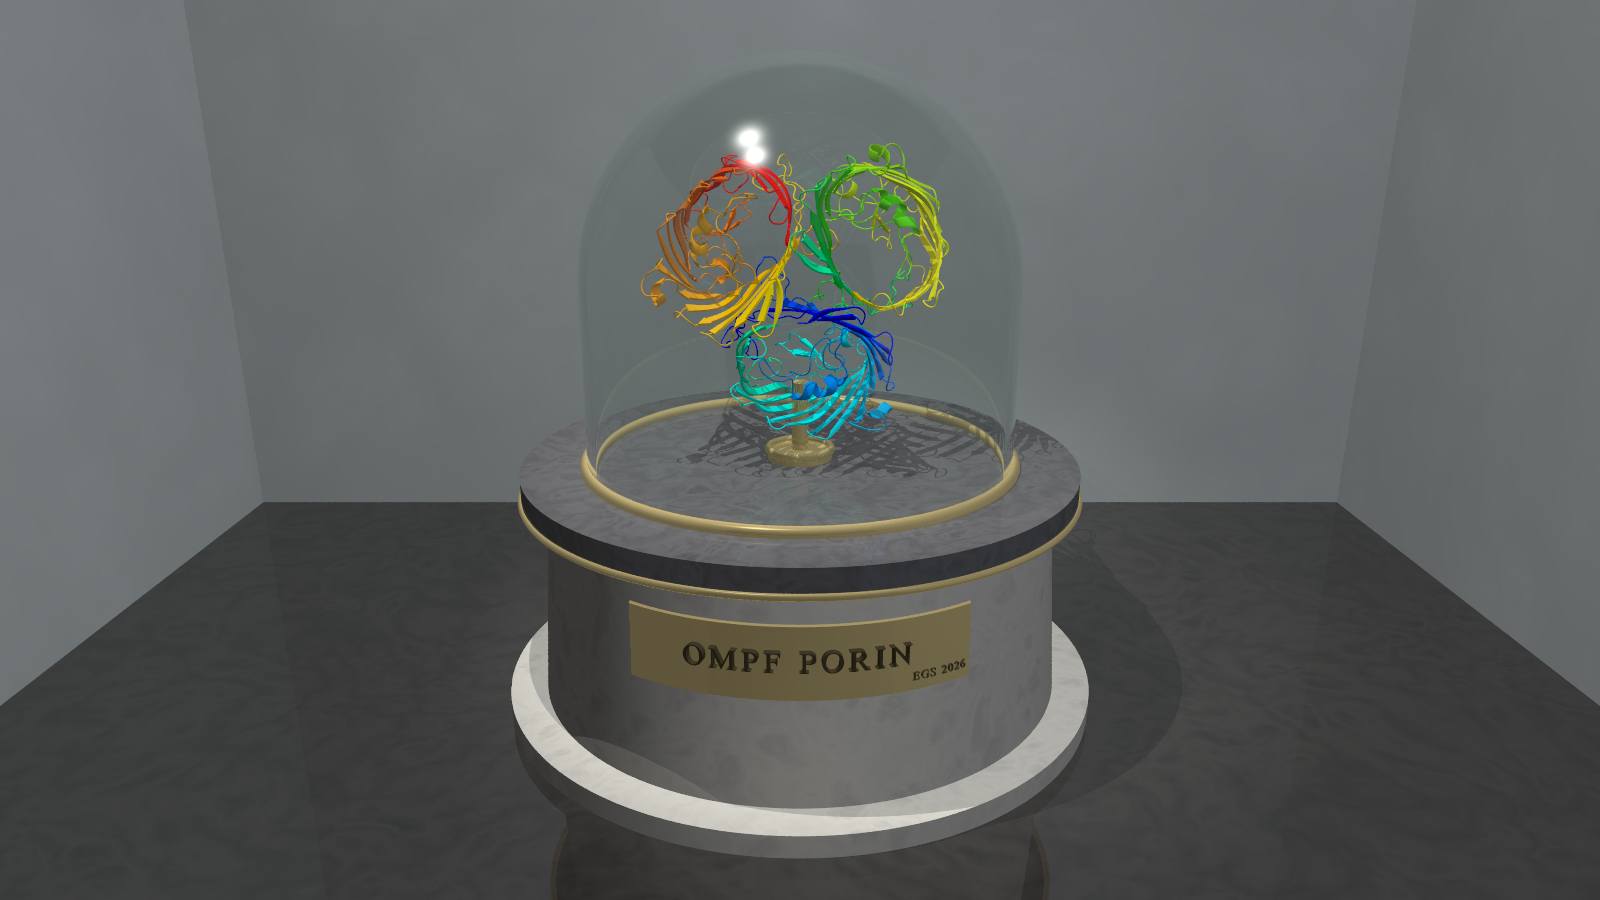
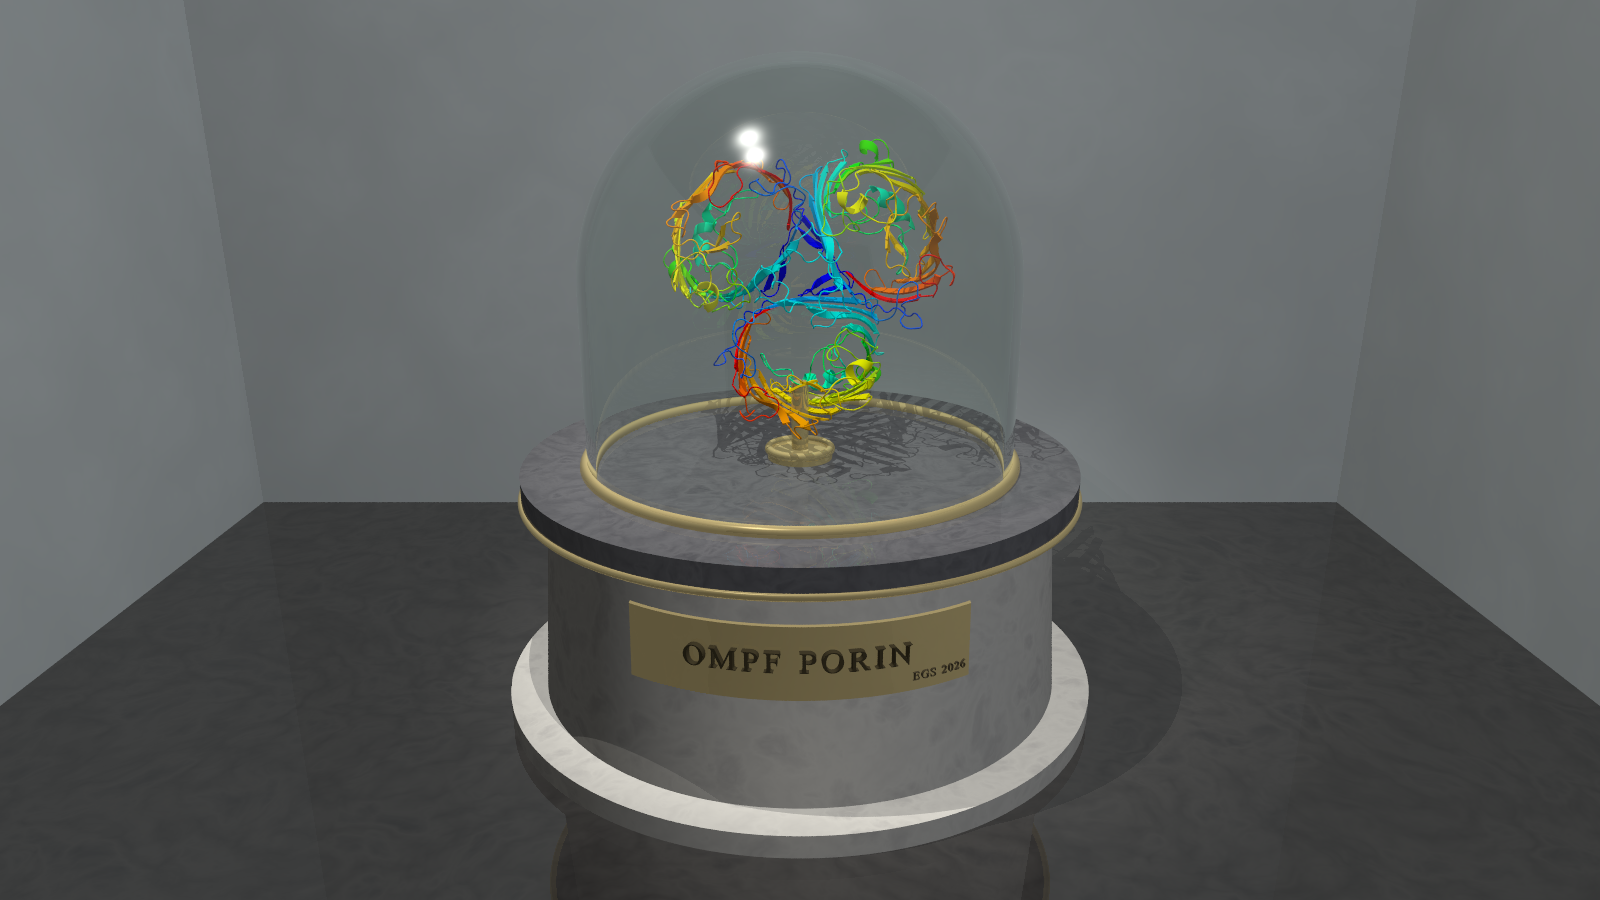
fix(pymol): cartoons rendered as their mirror image on both backends (#70)
* fix(pymol): cartoons rendered as their mirror image on both backends

cmd.get_povray() emits the model's own right-handed coordinates, offset
only by the view centre and camera pull-back. cartoon_inc() and
cartoon_obj() both treated it as already left-handed. So the POV-Ray
include skipped the z flip pypdb2pov applies to atoms, and the Cycles OBJ
added one it did not need: every structure came out correctly folded with
left-handed helices, and a cartoon would not line up with a pypdb2pov atom
scene of the same structure.

The include now ends with scale <1, 1, -1> after the recentring, and the
OBJ keeps PyMOL's coordinates and winding.

New tests measure each export against crambin's own CA atoms: 0.27 A to
the ribbon, against 2.80 A for the mirror image. They fail on the old code
and pass on the fix. Confirmed visually too: a lit alpha-helix through both
backends now matches PyMOL's own ray trace, where before both showed the
enantiomer.

Docs, the render_cartoon_hologram.py docstring and CHANGELOG corrected.
Cartoon renders made before this fix show the enantiomer.

* fix(make_exhibit): record the command that actually regenerates an exhibit

The scene header said "make_exhibit.py {stem.upper()}", which is only the
PDB ID when --name was not given. exhibit_mspa.pov was made from 1UUN with
--name mspa, so its header said "make_exhibit.py MSPA", which the RCSB
rejects. The header now carries the ID plus any --name and --label, and
[…]

Changed region(s): [[0.4062, 0.1556, 0.5938, 0.5289]]

diff --git a/tests/test_pymol.py b/tests/test_pymol.py
@@ -10,6 +10,7 @@ gated on PyMOL being reachable.
 from __future__ import annotations
 
 import math
+import re
 import shutil
 
 import pytest
@@ -272,6 +273,125 @@ def test_coalescing_is_what_makes_the_export_usable(tmp_path):
     assert plain.path.read_text().count("mesh2 {") > 100
     # Same object either way.
     assert merged.enclosing_radius == pytest.approx(plain.enclosing_radius, rel=1e-6)
+
+
+def _crambin_ca() -> list[tuple[float, float, float]]:
+    """CA coordinates of crambin, straight from the PDB file."""
+    with open(CRAMBIN) as fh:
+        return [
+            (float(line[30:38]), float(line[38:46]), float(line[46:54]))
+            for line in fh
+            if line.startswith("ATOM") and line[12:16].strip() == "CA"
+        ]
+
+
+def _model_centre(result_centre) -> tuple[float, float, float]:
+    """The model-space point a crambin export was recentred on.
+
+    The export script centres PyMOL's view on the atoms' bounding box, so the
+    raw mesh arrives already offset by it; ``centre`` is measured after that.
+    """
+    with open(CRAMBIN) as fh:
+        atoms = [
+            (float(line[30:38]), float(line[38:46]), float(line[46:54]))
+            for line in fh
+            if line.startswith("ATOM")
+        ]
+    box = [(min(a[i] for a in atoms) + max(a[i] for a in atoms)) / 2 for i in range(3)]
+    return tuple(b + c for b, c in zip(box, result_centre, strict=True))
+
+
+def _placed_vertices(include: str) -> list[tuple[float, float, float]]:
+    """Mesh vertices of *include* after its own transforms, in POV-Ray space.
+
+    Applies every ``translate`` and ``scale`` the wrapper declares, in order,
+    so the test sees the geometry where POV-Ray will put it -- not where the
+    implementation says it should be.
+    """
+    from quiltwright.pymol import _VEC, _VERTEX_BLOCK
+
+    points = [
+        [float(x), float(y), float(z)]
+        for block in _VERTEX_BLOCK.finditer(include)
+        for x, y, z in _VEC.findall(block.group(1))
+    ]
+    # The wrapper's transforms follow the mesh; the mesh itself carries none.
+    tail = include[include.rindex("face_indices") :]
+    for op, x, y, z in re.findall(r"(translate|scale)\s*<\s*([^,]+),\s*([^,]+),\s*([^>]+)>", tail):
+        v = (float(x), float(y), float(z))
+        for p in points:
+            for i in range(3):
+                p[i] = p[i] + v[i] if op == "translate" else p[i] * v[i]
+    return [tuple(p) for p in points]
+
+
+def _mean_ca_to_mesh(ca, centre, mesh, *, mirror_z: bool) -> float:
+    """Mean distance from each CA (recentred, optionally z-mirrored) to its nearest mesh vertex."""
+    import numpy as np
+
+    pts = np.asarray(mesh)
+    atoms = np.asarray(ca) - np.asarray(centre)
+    if mirror_z:
+        atoms[:, 2] = -atoms[:, 2]
+    return float(np.mean([np.min(np.linalg.norm(pts - a, axis=1)) for a in atoms]))
+
+
+def test_the_include_mirrors_z_after_recentring():
+    """POV-Ray is left-handed and PyMOL's export is right-handed model space,
+    so the include reflects z -- the same flip pypdb2pov applies to atoms --
+    and does it last, after the recentring translations.
+    """
+    text = wrapped()
+    assert text.index("translate <-3, 4, -5>") < text.index("scale <1, 1, -1>")
+
+
+@pytest.mark.slow
+@pymol_only
+def test_a_cartoon_include_is_not_the_enantiomer(tmp_path):
+    """The ribbon runs through its own CA atoms.  Mapped into POV-Ray's world
+    with the flip every other POV scene here uses (``to_pov``: negate z), each
+    crambin CA lies a fraction of an angstrom from the mesh; its mirror image
+    lies ten times further off.  A cartoon that renders left-handed helices fails
+    this, where every string check above would still pass.
+    """
+    if not __import__("os").path.exists(CRAMBIN):
+        pytest.skip("crambin not available on this machine")
+    result = cartoon_inc(CRAMBIN, tmp_path / "crambin.inc", assembly="")
+    mesh = _placed_vertices(result.path.read_text())
+    ca = _crambin_ca()
+
+    centre = _model_centre(result.centre)
+    right = _mean_ca_to_mesh(ca, centre, mesh, mirror_z=True)
+    mirrored = _mean_ca_to_mesh(ca, centre, mesh, mirror_z=False)
+    # Measured: 0.27 A against 2.80 A for the mirror image.
+    assert right < 1.0
+    assert mirrored > 5 * right
+
+
+@pytest.mark.slow
+@pymol_only
+def test_a_cartoon_obj_is_not_the_enantiomer(tmp_path):
+    """Cycles is right-handed like the PDB, so the OBJ is the model itself,
+    recentred: each CA lies close to the mesh unmirrored.
+    """
+    if not __import__("os").path.exists(CRAMBIN):
+        pytest.skip("crambin not available on this machine")
+    from quiltwright.pymol import cartoon_obj
+
+    centre = _model_centre(cartoon_inc(CRAMBIN, tmp_path / "crambin.inc", assembly="").centre)
+    out = cartoon_obj(CRAMBIN, tmp_path / "crambin.obj", assembly="").path
+    mesh = [
+        tuple(float(v) for v in line.split()[1:4])
+        for line in out.read_text().splitlines()
+        if line.startswith("v ")
+    ]
+    ca = _crambin_ca()
+
+    right = _mean_ca_to_mesh(ca, centre, mesh, mirror_z=False)
+    mirrored = _mean_ca_to_mesh(ca, centre, mesh, mirror_z=True)
+    # Measured: 0.27 A against 2.80 A for the mirror image.
+    assert right < 1.0
+    assert mirrored > 5 * right
 
 
 def test_a_missing_pymol_says_how_to_get_one(monkeypatch, tmp_path):

diff --git a/src/quiltwright/pymol.py b/src/quiltwright/pymol.py
@@ -567,8 +567,7 @@ class CartoonMeshResult:
     :param enclosing_radius: Radius of the sphere about the origin that
         contains the geometry, in angstroms -- identical to what
         :func:`cartoon_inc` would report for the same PyMOL export, since
-        both are measured from the same mesh before either the POV
-        ``translate`` trick or this function's coordinate flip is applied.
+        both are measured from the same mesh before either is recentred.
     :param vertices: Vertices in the emitted mesh, after deduplication.
     :param faces: Triangles in the emitted mesh.
     :param backend: ``"module"`` or ``"subprocess"``.
@@ -607,20 +606,20 @@ def cartoon_obj(
     recentring), so the enclosing radius here matches what that function
     would report for the same export.
 
-    **The coordinate flip.**  ``cmd.get_povray()`` emits directly in
-    POV-Ray's left-handed convention -- :func:`cartoon_inc` passes it through
-    unchanged, because POV-Ray is exactly where it is going.  An OBJ headed
-    for :mod:`quiltwright.cycles` (right-handed, +z up, same as everything
-    else in this package) needs the same reflection :func:`to_pov` applies in
-    the other direction: negate *z*, and reverse each face's winding to
-    compensate, or the mesh imports with its normals -- and every backface
-    culling decision Cycles makes -- turned inside out.  This mirrors
-    :class:`~quiltwright.povgen.Mesh2`'s own ``wind()`` step exactly, just
-    run backwards.  Verified against a real PyMOL export: also see
-    ``quiltwright.cycles``'s ``obj`` importer, which must be told the file is
-    already in this package's +z-up convention, or Blender's default
-    Y-up-to-Z-up remap for Wavefront files turns this mesh 90 degrees against
-    a camera framed for it.
+    **No coordinate flip.**  With the identity view the export script sets,
+    ``cmd.get_povray()`` emits the model's own right-handed coordinates,
+    offset only by the view centre and the camera pull-back -- PyMOL's POV
+    header compensates with a right-handed camera rather than by reflecting
+    the geometry.  :mod:`quiltwright.cycles` is right-handed too, so the OBJ
+    is the model, recentred, with PyMOL's winding kept.  (It is
+    :func:`cartoon_inc`, bound for left-handed POV-Ray, that reflects *z*.)
+    An earlier version negated *z* here on the belief that the export was
+    already left-handed, and so rendered every structure as its enantiomer;
+    ``tests/test_pymol.py`` now checks the mesh against the structure's own
+    CA atoms.  Also see ``quiltwright.cycles``'s ``obj`` importer, which must
+    be told the file is already in this package's +z-up convention, or
+    Blender's default Y-up-to-Z-up remap for Wavefront files turns this mesh
+    90 degrees against a camera framed for it.
 
     **Colour.**  Plain OBJ carries none, so by default (``color=None``) this
     writes geometry only, exactly as before.  Passing a colour bakes it into
@@ -709,12 +708,12 @@ def cartoon_obj(
     centre, radius, _ = _measure(mesh, meta["pull_back"])
     cx, cy, cz = centre
     vertices = [
-        (float(x) - cx, float(y) - cy, -(float(z) + meta["pull_back"] - cz))
+        (float(x) - cx, float(y) - cy, float(z) + meta["pull_back"] - cz)
         for block in _VERTEX_BLOCK.finditer(mesh)
         for x, y, z in _VEC.findall(block.group(1))
     ]
     faces = [
-        (int(a), int(c), int(b))  # winding reversed to match the z flip above
+        (int(a), int(b), int(c))
         for block in _FACE_BLOCK.finditer(mesh)
         for a, b, c in _VEC.findall(block.group(1))
     ]
@@ -802,6 +801,10 @@ def _wrap(
   // Undo PyMOL's camera pull-back, then centre the geometry on the origin.
   translate <0, 0, {z_shift:.6g}>
   translate <{-cx:.6g}, {-cy:.6g}, {-cz:.6g}>
+  // PyMOL exports right-handed model space; POV-Ray is left-handed.  The
+  // same flip pypdb2pov applies to atoms -- without it every helix is
+  // rendered as its mirror image.
+  scale <1, 1, -1>
 }}
 
 #declare {identifier} = object {{ {identifier}_obj }}

diff --git a/scripts/render_cartoon_hologram.py b/scripts/render_cartoon_hologram.py
@@ -25,14 +25,13 @@ modelled scenes:
 **Requires PyMOL** (see ``quiltwright cartoon --check`` for install routes)
 and either a ``povray`` or ``blender`` binary depending on ``--backend``.
 
-``--backend povray`` (``cartoon_inc()``) has now been run end to end against
-a real PyMOL export -- 1BMF, F1-ATP synthase, 154668 vertices / 307824 faces
--- and the output is a correctly folded, correctly coloured cartoon, so its
-own coordinate handling can be trusted. ``--backend cycles``
-(``cartoon_obj()``) has not been exercised the same way; treat a first real
-render from it with the scrutiny unverified code deserves, most of all the
-coordinate flip its docstring documents (negate *z*, reverse each face's
-winding).
+Both backends have been run end to end against real PyMOL exports (1BMF,
+F1-ATP synthase, 154668 vertices / 307824 faces, for ``--backend povray``).
+Through 0.15.0 both rendered every structure as its **mirror image** --
+correctly folded and coloured, with left-handed helices -- because each
+treated PyMOL's right-handed export as already left-handed.  Handedness is
+now checked in ``tests/test_pymol.py`` against the structure's own CA atoms,
+and was confirmed on a lit alpha-helix against PyMOL's own ray trace.
 
 Usage::
 
@@ -60,11 +59,11 @@ from quiltwright.lfd import QUILT_PRESETS, QuiltSpec, save_quilt
 from quiltwright.pymol import REPRESENTATIONS
 from quiltwright.quilt import resolve_view_cone
 
-#: A fixed 3/4-elevated viewing direction, in the right-handed convention
-#: this script frames both cameras from.  Arbitrary but consistent -- the
-#: same direction feeds both backends (see the module docstring on how the
-#: POV-Ray camera reaches the same view of the mirror-image geometry
-#: cartoon_inc() mounts).
+#: A fixed 3/4-elevated viewing direction, in the structure's own right-handed
+#: frame, which both cameras are framed from.  Arbitrary but consistent -- the
+#: same direction feeds both backends: the Cycles camera takes it as is, the
+#: POV-Ray camera through ``to_pov``, matching the z flip cartoon_inc() bakes
+#: into its include.
 VIEW_DIRECTION = np.array([0.55, -1.0, 0.4])
 VIEW_DIRECTION = VIEW_DIRECTION / np.linalg.norm(VIEW_DIRECTION)
 

diff --git a/scripts/make_exhibit.py b/scripts/make_exhibit.py
@@ -169,8 +169,12 @@ def convert(
     return out, radius
 
 
-def compose(stem: str, include: Path, label: str, fill: float) -> Path:
-    """Write the exhibit scene, unless one is already there to keep."""
+def compose(stem: str, include: Path, label: str, fill: float, command: str) -> Path:
+    """Write the exhibit scene, unless one is already there to keep.
+
+    :param command: The make_exhibit.py arguments that regenerate this
+        exhibit, recorded in the scene header.
+    """
     scene = VITRINE / f"exhibit_{stem}.pov"
     if scene.exists():
         say("3/5 compose", f"{scene.name} exists, keeping it")
@@ -186,7 +190,7 @@ def compose(stem: str, include: Path, label: str, fill: float) -> Path:
         f'''// {label} in the standard vitrine.  Written by scripts/make_exhibit.py.
 //
 // Regenerate the geometry with:
-//   python scripts/make_exhibit.py {stem.upper()}
+//   python scripts/make_exhibit.py {command}
 
 #version 3.7;
 global_settings {{ assumed_gamma 1.0 }}
@@ -306,7 +310,12 @@ def main(argv: list[str] | None = None) -> int:
         fill_args["surface_quality"] = quality
 
     include, _ = convert(source, stem, rep=args.rep, color=args.color, fill_args=fill_args)
-    scene = compose(stem, include, label, args.fill)
+    command = args.pdb_id.upper()
+    if args.name:
+        command += f" --name {args.name}"
+    if args.label:
+        command += f' --label "{args.label}"'
+    scene = compose(stem, include, label, args.fill, command)
     still = render(scene, stem, args.width, args.height)
     print(f"\n      {still}")
 

diff --git a/docs/cycles.md b/docs/cycles.md
@@ -233,14 +233,13 @@ python scripts/render_cartoon_hologram.py 2omf.cif.gz --backend povray --still #
 identical PyMOL export and coalescing, written as a plain OBJ instead of a
 POV-Ray include -- geometry only, no per-vertex color, since OBJ carries
 none reliably -- so a "which backend wins on a mesh this size" comparison
-starts from one triangulation, not two independently modeled scenes. It
-carries the same coordinate flip as everywhere else meshes cross from
-PyMOL's POV-Ray-native output into this package's right-handed convention:
-negate *z*, reverse each face's winding to compensate -- worth rereading its
-docstring before trusting a first render, since this path has not yet been
-exercised against a real PyMOL export in this codebase's own development
-environment (no PyMOL here) and the fix for a mesh that renders "inside out"
-is almost always exactly that flip.
+starts from one triangulation, not two independently modeled scenes. PyMOL's
+export is the model's own right-handed coordinates, the same convention as
+Cycles, so the OBJ needs no coordinate flip; it is `cartoon_inc()`, bound for
+left-handed POV-Ray, that reflects *z*. Through 0.15.0 this was the other way
+round, and both backends drew every structure as its mirror image.
+`tests/test_pymol.py` now checks each export against the structure's own CA
+atoms.
 
 ## What stays with POV-Ray
 

diff --git a/CHANGELOG.md b/CHANGELOG.md
@@ -7,6 +7,23 @@ and this project adheres to [Semantic Versioning](https://semver.org/).
 
 ## [Unreleased]
 
+### Fixed
+
+- **PyMOL cartoons rendered as their mirror image, on both backends.**
+  `cartoon_inc()` and `cartoon_obj()` treated `cmd.get_povray()`'s output as
+  left-handed. It is the model's own right-handed coordinates, offset by the
+  view centre and camera pull-back. So the POV-Ray include skipped the z flip
+  that pypdb2pov applies to atoms, and the Cycles OBJ added one it did not
+  need. Every structure came out correctly folded but with left-handed
+  helices, and a cartoon would not have lined up with a pypdb2pov atom scene
+  of the same structure in the same vitrine. The include now ends with
+  `scale <1, 1, -1>`, and the OBJ keeps PyMOL's coordinates and winding.
+  New tests measure the export against crambin's own CA atoms: 0.27 A to the
+  ribbon, against 2.80 A for the mirror image. Existing cartoon renders
+  (the F1-ATPase quilts and the GFP and OmpF vitrine cartoons) show the
+  enantiomer and need re-rendering; a camera placed for the old geometry now
+  sees the molecule from its other side.
+
 ### Added
 
 - **`--sweep tool` on `scripts/render_still_life_hologram.py`,** which renders
